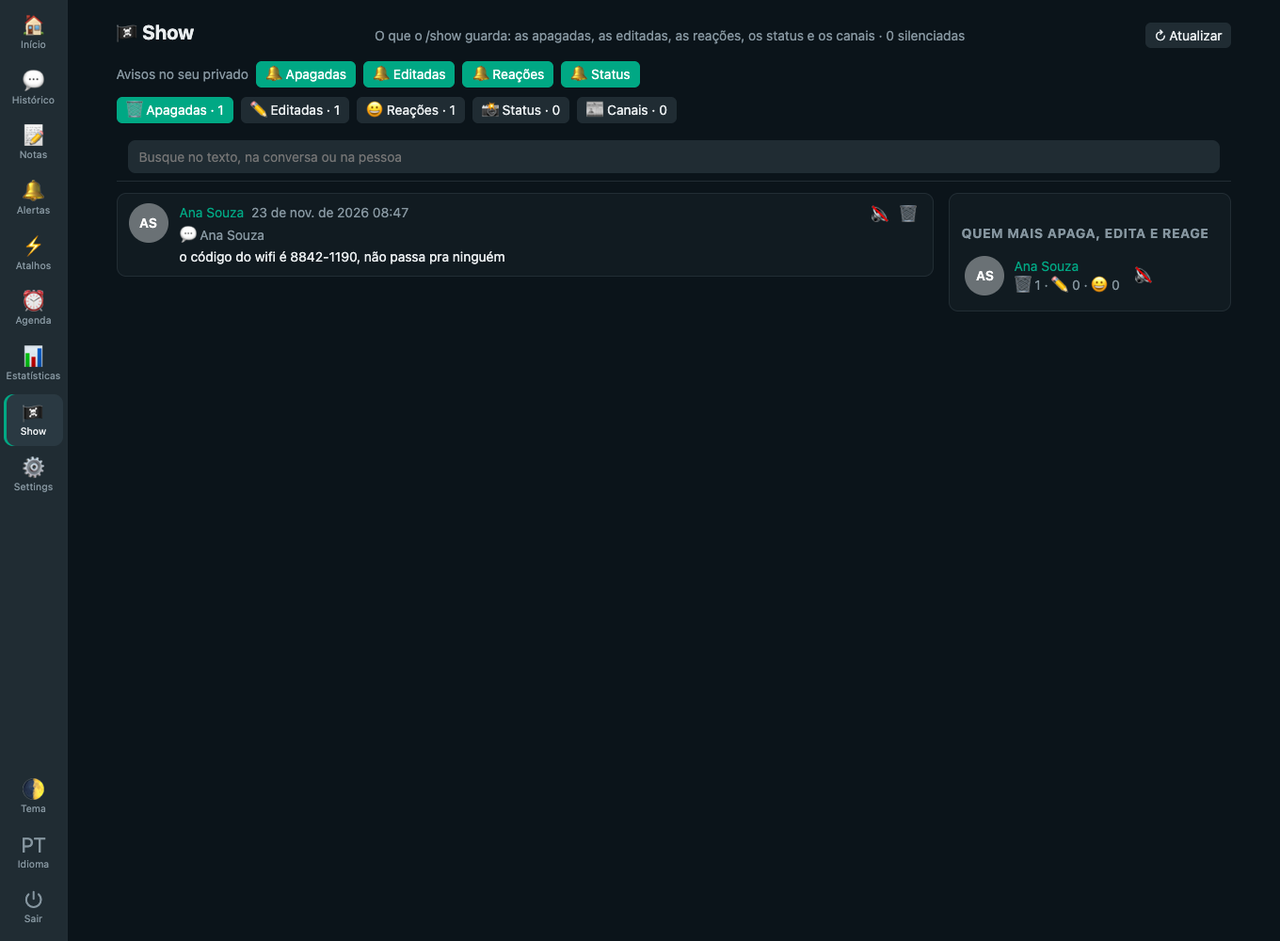
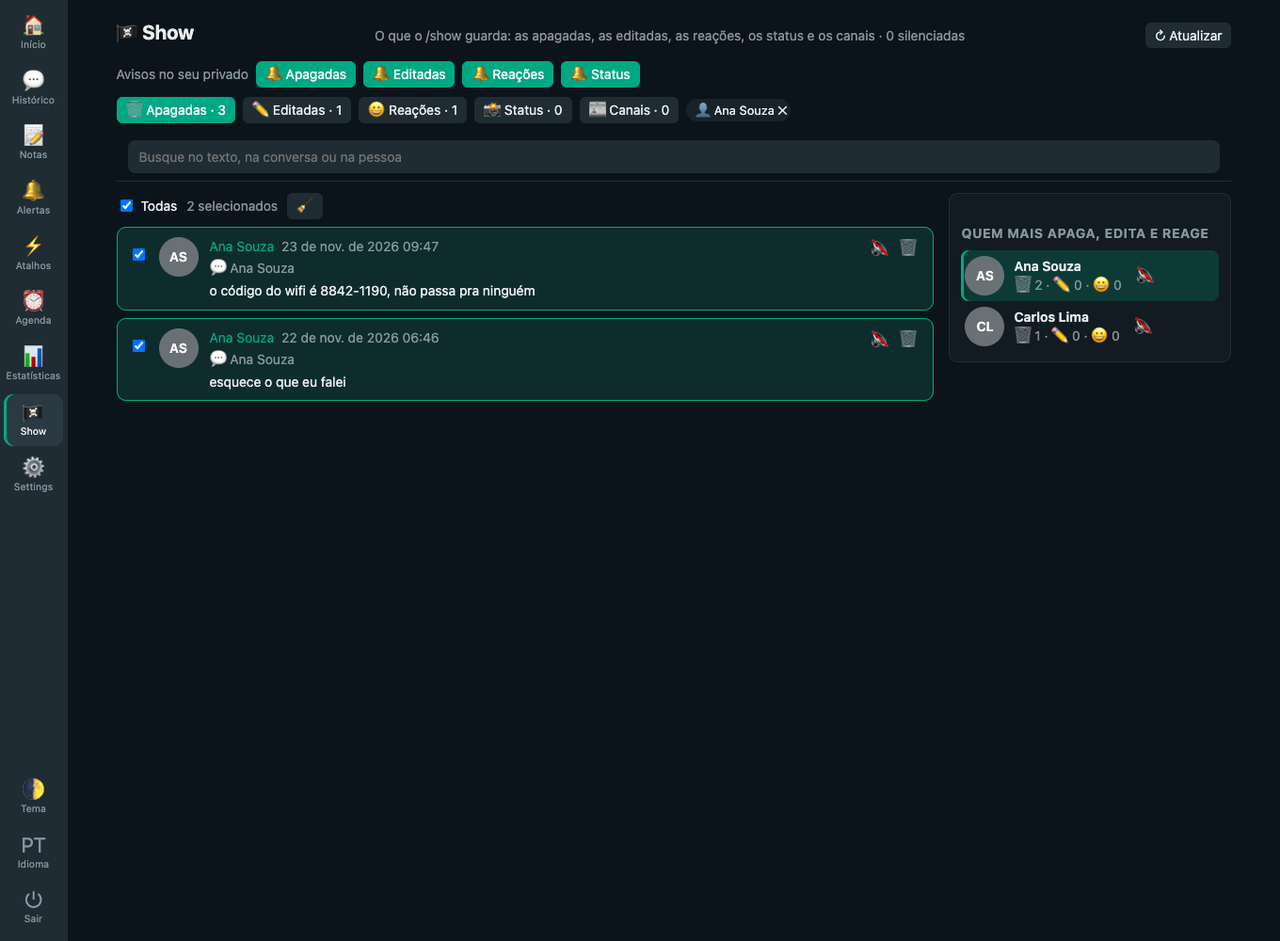
web: Show takes several items out at once (🧹) and highlights the person picked
A click on a card selects it, Shift+click selects a range and "All" every card of the list; the 🧹
above the list takes the selected ones out of the cache, in one call (ids, up to 500). The person
picked on the right gets a highlighted box, and a click on it again shows everyone. The screenshot
script checks "All" and Shift+click in the browser.

Changed region(s): [[0.0926, 0.217, 0.4324, 0.434], [0.6794, 0.217, 0.9574, 0.372], [0.1853, 0.093, 0.6176, 0.124]]

diff --git a/src/web/public/app.js b/src/web/public/app.js
@@ -28,7 +28,7 @@ const TEXTS = {
         vsPrevious: 'vs the previous period', noData: 'No data in this period yet.', cPerDay: 'Messages per day', cDeletedEdited: 'Deleted and edited per day', cHours: 'Messages by hour of the day',
         cHeat: 'When the chat is busy (weekday x hour)', cTypes: 'What the messages are', cChats: 'Chats with the most messages', cPeople: 'People who talk the most',
         text: 'text', mediaWord: 'media', weekdays: ['Sun', 'Mon', 'Tue', 'Wed', 'Thu', 'Fri', 'Sat'], msgsWord: 'messages', share: 'of the total',
-        cannotShow: 'this message could not be shown', phTag: 'travel', phTagDesc: 'places to visit', phNoteTag: 'ideas', envForced: (env) => `Decided by the ${env} variable (config/.env), which has priority over this setting`, noticeOn: 'Off: click to turn it on', noticeOff: 'On: click to turn it off', runOn: 'Running: click to pause', runOff: 'Paused: click to resume', clearHistory: 'Clear the history of this chat', clearBtn: 'Clear', clearTitle: (name) => `Clear the history · ${name}`, clearInfo: (r) => `${r.removed} messages will be deleted (with their media). ${r.kept} stay: the deleted, the edited and the ones with reactions, with what they had before.`, clearNothing: 'Nothing to delete: every message here is a deleted, edited or reacted one.', clearEmpty: 'This chat has no messages in the database.', cacheBtn: 'Clean', deleteNote: 'Delete the note', notice: 'Notice', spy: { nav: 'Show', subtitle: 'What /show keeps: the deleted, the edited, the reactions, the statuses and the channels', kinds: { deleted: 'Deleted', edited: 'Edited', reactions: 'Reactions', status: 'Statuses', channels: 'Channels' }, alerts: 'Notices in your private chat', alertOn: 'On: click to turn it off', alertOff: 'Off: click to turn it on', people: 'Who deletes, edits and reacts the most', nobody: 'Nobody yet.', search: 'Search the text, the chat or the person', empty: 'Nothing here.', mute: 'Mute this person (/mute)', unmute: 'Unmute (/unmute)', muted: 'muted', removeTitle: 'Take it out of the cache', removeText: 'The bot forgets this item (and its media); WhatsApp is not touched.', removed: 'removed', media: 'Open the media', openChat: 'Open the chat at this message', mutedCount: (n) => `${n} muted` }, cacheClean: 'Clean the cache (/cache)', cacheRetention: 'What is past the retention windows (/cache -clean)', cachePick: 'Pick at least one.', cacheAll: 'Everything (/cache -all): every message (deleted, edited and reacted included), media, temporary files and backups', cacheAllWarning: '⚠ Everything takes the whole history of every chat and the backups too: there is no undo. The notes always stay.', flushAll: 'Clear the history of every chat', flushBtn: 'Clear every chat', flushEmpty: 'There are no messages in the database.', flushWarning: (n) => `⚠ This clears the history of all the ${n} chats at once, not only this one. There is no undo (only a /backup).`, clearAll: (n) => `Delete everything (${n}), including the deleted, the edited and the reacted ones, with their media`, webPanel: 'Web interface', webAt: 'Open at', webAccess: 'Access', webLogin: 'Login and session', webScreen: 'Screen', webAlerts: 'Warnings', notSet: 'not set', needsRestart: 'Takes effect when the bot restarts', restSettings: 'All the other settings', protectedHere: 'Change it with /set in WhatsApp',  meBtn: 'Me (my private chat)', watchedBy: '/watch', openInHistory: 'Open in the history, at this message', presenceSource: 'WhatsApp presence · time not confirmed', newTag: 'New tag', newNote: 'New note', editTagBtn: 'Edit the tag', removeTag: 'Remove the tag', confirmRemoveTag: 'Remove this tag (it has no notes)?', removeTagWithNotes: 'Remove the tag and everything in it', removeTagInfo: (n) => `${n} note${n === 1 ? '' : 's'} (and their media) will be deleted, along with the tag's description and lock, if any.`, historyBtn: 'History', loadingHistory: 'Loading the history…', searchContact: 'Search a contact or group (name or number) or type an email', pickContact: 'Search the contact (name or number)', noMatches: 'No contact found', privateChat: 'Empty: it goes to your private chat', useEmail: (email) => `✉ Use ${email}`, updatedAt: (time) => `updated at ${time}`, noHistory: 'Nothing recorded yet.', removeReading: 'Remove this reading', historyOf: (name, total) => `${name} · ${total}`, securityChanged: (who) => `🔒 ${who ? `${who}'s` : 'a participant\'s'} security code changed`, systemNotice: (text) => `ℹ ${text ?? 'WhatsApp notice'}`, loadMore: 'Load more', noMore: 'No more messages.', loadingFor: (name) => `Loading ${name}…`, loadingStats: 'Loading the statistics…', loadingHome: 'Loading…', statsOverview: 'Statistics', last30: 'last 30 days', seeAllStats: 'See all the statistics',
+        cannotShow: 'this message could not be shown', phTag: 'travel', phTagDesc: 'places to visit', phNoteTag: 'ideas', envForced: (env) => `Decided by the ${env} variable (config/.env), which has priority over this setting`, noticeOn: 'Off: click to turn it on', noticeOff: 'On: click to turn it off', runOn: 'Running: click to pause', runOff: 'Paused: click to resume', clearHistory: 'Clear the history of this chat', clearBtn: 'Clear', clearTitle: (name) => `Clear the history · ${name}`, clearInfo: (r) => `${r.removed} messages will be deleted (with their media). ${r.kept} stay: the deleted, the edited and the ones with reactions, with what they had before.`, clearNothing: 'Nothing to delete: every message here is a deleted, edited or reacted one.', clearEmpty: 'This chat has no messages in the database.', cacheBtn: 'Clean', deleteNote: 'Delete the note', notice: 'Notice', spy: { nav: 'Show', subtitle: 'What /show keeps: the deleted, the edited, the reactions, the statuses and the channels', kinds: { deleted: 'Deleted', edited: 'Edited', reactions: 'Reactions', status: 'Statuses', channels: 'Channels' }, alerts: 'Notices in your private chat', alertOn: 'On: click to turn it off', alertOff: 'Off: click to turn it on', people: 'Who deletes, edits and reacts the most', nobody: 'Nobody yet.', search: 'Search the text, the chat or the person', empty: 'Nothing here.', mute: 'Mute this person (/mute)', unmute: 'Unmute (/unmute)', muted: 'muted', removeTitle: 'Take it out of the cache', removeText: 'The bot forgets this item (and its media); WhatsApp is not touched.', removed: 'removed', media: 'Open the media', openChat: 'Open the chat at this message', mutedCount: (n) => `${n} muted`, selectAll: 'All', selectOne: 'Select', selectHint: 'Click the items to select them (Shift+click: a range)', selected: (n) => `${n} selected`, removeSelected: (n) => `Take ${n} item${n === 1 ? '' : 's'} out of the cache` }, cacheClean: 'Clean the cache (/cache)', cacheRetention: 'What is past the retention windows (/cache -clean)', cachePick: 'Pick at least one.', cacheAll: 'Everything (/cache -all): every message (deleted, edited and reacted included), media, temporary files and backups', cacheAllWarning: '⚠ Everything takes the whole history of every chat and the backups too: there is no undo. The notes always stay.', flushAll: 'Clear the history of every chat', flushBtn: 'Clear every chat', flushEmpty: 'There are no messages in the database.', flushWarning: (n) => `⚠ This clears the history of all the ${n} chats at once, not only this one. There is no undo (only a /backup).`, clearAll: (n) => `Delete everything (${n}), including the deleted, the edited and the reacted ones, with their media`, webPanel: 'Web interface', webAt: 'Open at', webAccess: 'Access', webLogin: 'Login and session', webScreen: 'Screen', webAlerts: 'Warnings', notSet: 'not set', needsRestart: 'Takes effect when the bot restarts', restSettings: 'All the other settings', protectedHere: 'Change it with /set in WhatsApp',  meBtn: 'Me (my private chat)', watchedBy: '/watch', openInHistory: 'Open in the history, at this message', presenceSource: 'WhatsApp presence · time not confirmed', newTag: 'New tag', newNote: 'New note', editTagBtn: 'Edit the tag', removeTag: 'Remove the tag', confirmRemoveTag: 'Remove this tag (it has no notes)?', removeTagWithNotes: 'Remove the tag and everything in it', removeTagInfo: (n) => `${n} note${n === 1 ? '' : 's'} (and their media) will be deleted, along with the tag's description and lock, if any.`, historyBtn: 'History', loadingHistory: 'Loading the history…', searchContact: 'Search a contact or group (name or number) or type an email', pickContact: 'Search the contact (name or number)', noMatches: 'No contact found', privateChat: 'Empty: it goes to your private chat', useEmail: (email) => `✉ Use ${email}`, updatedAt: (time) => `updated at ${time}`, noHistory: 'Nothing recorded yet.', removeReading: 'Remove this reading', historyOf: (name, total) => `${name} · ${total}`, securityChanged: (who) => `🔒 ${who ? `${who}'s` : 'a participant\'s'} security code changed`, systemNotice: (text) => `ℹ ${text ?? 'WhatsApp notice'}`, loadMore: 'Load more', noMore: 'No more messages.', loadingFor: (name) => `Loading ${name}…`, loadingStats: 'Loading the statistics…', loadingHome: 'Loading…', statsOverview: 'Statistics', last30: 'last 30 days', seeAllStats: 'See all the statistics',
         code: '6-digit code', quotedGone: 'message not in the database', searchAll: 'Search all the messages', searchResults: (n) => `${n} results`, exportChat: 'Export PDF', reacted: 'reaction', removedReaction: 'removed', reactionHistory: 'Reaction history',
         reactionChanged: 'Changed reaction', reactionRemoved: 'Removed reaction', autoRefresh: 'New messages',
         home: 'Home', navHistory: 'History', notes: 'Notes', alerts: 'Alerts', aliases: 'Shortcuts', schedule: 'Schedule', stats: 'Stats', settings: 'Settings',
@@ -71,7 +71,7 @@ const TEXTS = {
         vsPrevious: 'em relação ao período anterior', noData: 'Ainda não há dados neste período.', cPerDay: 'Mensagens por dia', cDeletedEdited: 'Apagadas e editadas por dia', cHours: 'Mensagens por hora do dia',
         cHeat: 'Quando o movimento é maior (dia da semana x hora)', cTypes: 'O que são as mensagens', cChats: 'Conversas com mais mensagens', cPeople: 'Quem mais fala',
         text: 'texto', mediaWord: 'mídia', weekdays: ['Dom', 'Seg', 'Ter', 'Qua', 'Qui', 'Sex', 'Sáb'], msgsWord: 'mensagens', share: 'do total',
-        cannotShow: 'não foi possível mostrar esta mensagem', phTag: 'viagens', phTagDesc: 'lugares para conhecer', phNoteTag: 'ideias', envForced: (env) => `Decidido pela variável ${env} (config/.env), que tem prioridade sobre este setting`, noticeOn: 'Desligado: clique para ligar', noticeOff: 'Ligado: clique para desligar', runOn: 'Ativo: clique para pausar', runOff: 'Pausado: clique para retomar', clearHistory: 'Limpar o histórico desta conversa', clearBtn: 'Limpar', clearTitle: (name) => `Limpar o histórico · ${name}`, clearInfo: (r) => `${r.removed} mensagens serão apagadas (com a mídia). ${r.kept} ficam: as apagadas, as editadas e as com reações, com o que tinham antes.`, clearNothing: 'Nada a apagar: toda mensagem daqui é apagada, editada ou tem reação.', clearEmpty: 'Esta conversa não tem mensagens no banco.', cacheBtn: 'Limpar', deleteNote: 'Apagar a nota', notice: 'Aviso', spy: { nav: 'Show', subtitle: 'O que o /show guarda: as apagadas, as editadas, as reações, os status e os canais', kinds: { deleted: 'Apagadas', edited: 'Editadas', reactions: 'Reações', status: 'Status', channels: 'Canais' }, alerts: 'Avisos no seu privado', alertOn: 'Ligado: clique para desligar', alertOff: 'Desligado: clique para ligar', people: 'Quem mais apaga, edita e reage', nobody: 'Ninguém ainda.', search: 'Busque no texto, na conversa ou na pessoa', empty: 'Nada aqui.', mute: 'Silenciar esta pessoa (/mute)', unmute: 'Tirar o silêncio (/unmute)', muted: 'silenciada', removeTitle: 'Tirar do cache', removeText: 'O bot esquece este item (e a mídia dele); o WhatsApp não é tocado.', removed: 'tirou', media: 'Abrir a mídia', openChat: 'Abrir a conversa nesta mensagem', mutedCount: (n) => `${n} silenciadas` }, cacheClean: 'Limpar o cache (/cache)', cacheRetention: 'O que passou da retenção (/cache -clean)', cachePick: 'Marque pelo menos um.', cacheAll: 'Tudo (/cache -all): todas as mensagens (inclusive apagadas, editadas e com reações), mídias, temporários e backups', cacheAllWarning: '⚠ Tudo leva o histórico inteiro de todas as conversas e os backups também: não tem como desfazer. As notas ficam sempre.', flushAll: 'Limpar o histórico de todas as conversas', flushBtn: 'Limpar todas as conversas', flushEmpty: 'Não há mensagens no banco.', flushWarning: (n) => `⚠ Isto limpa o histórico de todas as ${n} conversas de uma vez, não só de uma. Não tem como desfazer (só por um /backup).`, clearAll: (n) => `Apagar tudo (${n}), inclusive as apagadas, as editadas e as com reações, com a mídia delas`, webPanel: 'Interface web', webAt: 'Abra em', webAccess: 'Acesso', webLogin: 'Login e sessão', webScreen: 'Tela', webAlerts: 'Avisos', notSet: 'não definido', needsRestart: 'Vale quando o bot reiniciar', restSettings: 'Todos os outros settings', protectedHere: 'Mude com o /set no WhatsApp',  meBtn: 'Eu (meu privado)', watchedBy: '/watch', openInHistory: 'Abrir no histórico, nesta mensagem', presenceSource: 'presença do WhatsApp · horário não confirmado', newTag: 'Nova tag', newNote: 'Nova nota', editTagBtn: 'Editar a tag', removeTag: 'Remover a tag', confirmRemoveTag: 'Remover esta tag (ela não tem notas)?', removeTagWithNotes: 'Remover a tag e tudo dentro dela', removeTagInfo: (n) => `${n} nota${n === 1 ? '' : 's'} (e a mídia delas) serão apagadas, junto com a descrição e o cadeado da tag, se houver.`, historyBtn: 'Histórico', loadingHistory: 'Carregando o histórico…', searchContact: 'Busque um contato ou grupo (nome ou número) ou digite um e-mail', pickContact: 'Busque o contato (nome ou número)', noMatches: 'Nenhum contato encontrado', privateChat: 'Vazio: vai para o seu privado', useEmail: (email) => `✉ Usar ${email}`, updatedAt: (time) => `atualizado às ${time}`, noHistory: 'Nada registrado ainda.', removeReading: 'Remover esta leitura', historyOf: (name, total) => `${name} · ${total}`, securityChanged: (who) => `🔒 o código de segurança de ${who ?? 'um participante'} mudou`, systemNotice: (text) => `ℹ ${text ?? 'aviso do WhatsApp'}`, loadMore: 'Carregar mais', noMore: 'Não há mais mensagens.', loadingFor: (name) => `Carregando ${name}…`, loadingStats: 'Carregando as estatísticas…', loadingHome: 'Carregando…', statsOverview: 'Estatísticas', last30: 'últimos 30 dias', seeAllStats: 'Ver todas as estatísticas',
+        cannotShow: 'não foi possível mostrar esta mensagem', phTag: 'viagens', phTagDesc: 'lugares para conhecer', phNoteTag: 'ideias', envForced: (env) => `Decidido pela variável ${env} (config/.env), que tem prioridade sobre este setting`, noticeOn: 'Desligado: clique para ligar', noticeOff: 'Ligado: clique para desligar', runOn: 'Ativo: clique para pausar', runOff: 'Pausado: clique para retomar', clearHistory: 'Limpar o histórico desta conversa', clearBtn: 'Limpar', clearTitle: (name) => `Limpar o histórico · ${name}`, clearInfo: (r) => `${r.removed} mensagens serão apagadas (com a mídia). ${r.kept} ficam: as apagadas, as editadas e as com reações, com o que tinham antes.`, clearNothing: 'Nada a apagar: toda mensagem daqui é apagada, editada ou tem reação.', clearEmpty: 'Esta conversa não tem mensagens no banco.', cacheBtn: 'Limpar', deleteNote: 'Apagar a nota', notice: 'Aviso', spy: { nav: 'Show', subtitle: 'O que o /show guarda: as apagadas, as editadas, as reações, os status e os canais', kinds: { deleted: 'Apagadas', edited: 'Editadas', reactions: 'Reações', status: 'Status', channels: 'Canais' }, alerts: 'Avisos no seu privado', alertOn: 'Ligado: clique para desligar', alertOff: 'Desligado: clique para ligar', people: 'Quem mais apaga, edita e reage', nobody: 'Ninguém ainda.', search: 'Busque no texto, na conversa ou na pessoa', empty: 'Nada aqui.', mute: 'Silenciar esta pessoa (/mute)', unmute: 'Tirar o silêncio (/unmute)', muted: 'silenciada', removeTitle: 'Tirar do cache', removeText: 'O bot esquece este item (e a mídia dele); o WhatsApp não é tocado.', removed: 'tirou', media: 'Abrir a mídia', openChat: 'Abrir a conversa nesta mensagem', mutedCount: (n) => `${n} silenciadas`, selectAll: 'Todas', selectOne: 'Selecionar', selectHint: 'Clique nos itens para selecioná-los (Shift+clique: um intervalo)', selected: (n) => `${n} selecionado${n === 1 ? '' : 's'}`, removeSelected: (n) => `Tirar ${n} ${n === 1 ? 'item' : 'itens'} do cache` }, cacheClean: 'Limpar o cache (/cache)', cacheRetention: 'O que passou da retenção (/cache -clean)', cachePick: 'Marque pelo menos um.', cacheAll: 'Tudo (/cache -all): todas as mensagens (inclusive apagadas, editadas e com reações), mídias, temporários e backups', cacheAllWarning: '⚠ Tudo leva o histórico inteiro de todas as conversas e os backups também: não tem como desfazer. As notas ficam sempre.', flushAll: 'Limpar o histórico de todas as conversas', flushBtn: 'Limpar todas as conversas', flushEmpty: 'Não há mensagens no banco.', flushWarning: (n) => `⚠ Isto limpa o histórico de todas as ${n} conversas de uma vez, não só de uma. Não tem como desfazer (só por um /backup).`, clearAll: (n) => `Apagar tudo (${n}), inclusive as apagadas, as editadas e as com reações, com a mídia delas`, webPanel: 'Interface web', webAt: 'Abra em', webAccess: 'Acesso', webLogin: 'Login e sessão', webScreen: 'Tela', webAlerts: 'Avisos', notSet: 'não definido', needsRestart: 'Vale quando o bot reiniciar', restSettings: 'Todos os outros settings', protectedHere: 'Mude com o /set no WhatsApp',  meBtn: 'Eu (meu privado)', watchedBy: '/watch', openInHistory: 'Abrir no histórico, nesta mensagem', presenceSource: 'presença do WhatsApp · horário não confirmado', newTag: 'Nova tag', newNote: 'Nova nota', editTagBtn: 'Editar a tag', removeTag: 'Remover a tag', confirmRemoveTag: 'Remover esta tag (ela não tem notas)?', removeTagWithNotes: 'Remover a tag e tudo dentro dela', removeTagInfo: (n) => `${n} nota${n === 1 ? '' : 's'} (e a mídia delas) serão apagadas, junto com a descrição e o cadeado da tag, se houver.`, historyBtn: 'Histórico', loadingHistory: 'Carregando o histórico…', searchContact: 'Busque um contato ou grupo (nome ou número) ou digite um e-mail', pickContact: 'Busque o contato (nome ou número)', noMatches: 'Nenhum contato encontrado', privateChat: 'Vazio: vai para o seu privado', useEmail: (email) => `✉ Usar ${email}`, updatedAt: (time) => `atualizado às ${time}`, noHistory: 'Nada registrado ainda.', removeReading: 'Remover esta leitura', historyOf: (name, total) => `${name} · ${total}`, securityChanged: (who) => `🔒 o código de segurança de ${who ?? 'um participante'} mudou`, systemNotice: (text) => `ℹ ${text ?? 'aviso do WhatsApp'}`, loadMore: 'Carregar mais', noMore: 'Não há mais mensagens.', loadingFor: (name) => `Carregando ${name}…`, loadingStats: 'Carregando as estatísticas…', loadingHome: 'Carregando…', statsOverview: 'Estatísticas', last30: 'últimos 30 dias', seeAllStats: 'Ver todas as estatísticas',
         code: 'Código de 6 dígitos', quotedGone: 'mensagem fora do banco', searchAll: 'Buscar em todas as mensagens', searchResults: (n) => `${n} resultados`, exportChat: 'Exportar PDF', reacted: 'reação', removedReaction: 'removida', reactionHistory: 'Histórico de reações',
         reactionChanged: 'Alterou a reação', reactionRemoved: 'Removeu a reação', autoRefresh: 'Mensagens novas',
         home: 'Início', navHistory: 'Histórico', notes: 'Notas', alerts: 'Alertas', aliases: 'Atalhos', schedule: 'Agenda', stats: 'Estatísticas', settings: 'Settings',
@@ -869,13 +869,60 @@ async function showSpy(content) {
     const feed = el('div', { class: 'spy-feed' });
     const more = el('button', { class: 'btn' }, T.loadMore);
     const tabs = el('div', { class: 'spy-tabs' });
+    const people = el('div', { class: 'spy-people' });
+    // The selection: the cards picked (by click) to take out of the cache at once
+    const picked = new Map();
+    const pickAll = el('input', { type: 'checkbox', title: S.selectAll, onchange: (event) => {
+        // Read once: each setPicked redraws the bar, which recomputes this checkbox
+        const on = event.target.checked;
+        for (const box of feed.querySelectorAll('.spy-card')) setPicked(box, on);
+    } });
+    const pickInfo = el('span', { class: 'muted grow' });
+    const sweep = el('button', { class: 'btn', onclick: () => sweepPicked() }, '🧹');
+    const bar = el('div', { class: 'spy-bar' }, el('label', { class: 'spy-all' }, pickAll, S.selectAll), pickInfo, sweep);
     let next = null;
+
+    function setPicked(box, on) {
+        box.classList.toggle('picked', on);
+        box.querySelector('.spy-pick').checked = on;
+        if (on) picked.set(box.dataset.id, box); else picked.delete(box.dataset.id);
+        renderBar();
+    }
+    // Shift+click: from the last card clicked to this one, all take the state of this one
+    let anchor = null;
+    function clickCard(box, range) {
+        const on = !box.classList.contains('picked');
+        const cards = [...feed.querySelectorAll('.spy-card')];
+        if (range && anchor?.isConnected) {
+            window.getSelection()?.removeAllRanges();
+            const [from, to] = [cards.indexOf(anchor), cards.indexOf(box)].sort((a, b) => a - b);
+            for (const one of cards.slice(from, to + 1)) setPicked(one, on);
+        } else setPicked(box, on);
+        anchor = box;
+    }
+    function renderBar() {
+        const total = feed.querySelectorAll('.spy-card').length;
+        pickInfo.textContent = picked.size ? S.selected(picked.size) : S.selectHint;
+        sweep.disabled = !picked.size;
+        sweep.title = S.removeSelected(picked.size);
+        pickAll.checked = Boolean(total) && picked.size === total;
+        pickAll.indeterminate = picked.size > 0 && picked.size < total;
+        bar.hidden = !total;
+    }
+    function sweepPicked() {
+        if (!picked.size) return;
+        const ids = [...picked.keys()];
+        confirmBox({
+            title: S.removeSelected(ids.length), text: S.removeText, submitLabel: `🧹 ${T.remove}`,
+            action: async () => { const result = await manage({ section: 'show', op: 'delete', kind: state.spy.kind, ids }); if (!result.error) show('show'); return result; }
+        });
+    }
 
     const toggleMute = async (who) => {
         const result = await manage({ section: 'show', op: 'mute', number: who.number, name: who.name });
         if (result.error) messageBox(result.error); else show('show');
     };
-    const pickPerson = (who) => { state.spy.person = who.number ? { number: who.number, name: who.name } : null; renderTabs(); load(true); };
+    const pickPerson = (who) => { state.spy.person = who.number ? { number: who.number, name: who.name } : null; renderTabs(); renderPeople(); load(true); };
 
     function card(item) {
         const who = item.person;
@@ -884,7 +931,12 @@ async function showSpy(content) {
             : item.kind === 'reactions'
                 ? [el('div', { class: 'spy-reaction' }, `${item.reaction.from || '∅'} → ${item.reaction.to || S.removed}`), item.text ? el('div', { class: 'muted' }, item.text) : null]
                 : [item.text ? el('div', {}, item.text) : null, item.media ? media(item) : null];
-        return el('div', { class: 'spy-card' },
+        const box = el('div', { class: 'spy-card', 'data-id': String(item.id), onclick: (event) => {
+            // A click on the card (the checkbox included) picks it; the buttons, links and media keep their own
+            if (event.target.closest('button, a, img')) return;
+            clickCard(box, event.shiftKey);
+        } },
+            el('input', { type: 'checkbox', class: 'spy-pick', tabindex: '-1', title: S.selectOne }),
             avatar({ id: who.id ?? item.chat, name: who.name }),
             el('div', { class: 'spy-body' },
                 el('div', { class: 'spy-head' },
@@ -899,6 +951,7 @@ async function showSpy(content) {
                     title: S.removeTitle, text: S.removeText,
                     action: async () => { const result = await manage({ section: 'show', op: 'delete', kind: item.kind, id: item.id }); if (!result.error) show('show'); return result; }
                 }) }, '🗑')));
+        return box;
     }
 
     function media(item) {
@@ -915,10 +968,11 @@ async function showSpy(content) {
         if (!reset && next) params.set('before', String(next));
         const page = await (await api(`/api/show/items?${params}`)).json();
         next = page.next;
-        if (reset) feed.replaceChildren();
+        if (reset) { feed.replaceChildren(); picked.clear(); anchor = null; }
         if (reset && !page.items.length) feed.append(el('div', { class: 'empty' }, S.empty));
         feed.append(...page.items.map(card));
         more.hidden = !next;
+        renderBar();
     }
     more.addEventListener('click', () => load(false));
 
@@ -926,7 +980,7 @@ async function showSpy(content) {
         tabs.replaceChildren(...Object.entries(SPY_KINDS).map(([kind, icon]) => el('button', {
             class: `btn${state.spy.kind === kind ? ' on' : ''}`, onclick: () => { state.spy.kind = kind; renderTabs(); load(true); }
         }, `${icon} ${S.kinds[kind]} · ${summary.counts[kind]}`)),
-        state.spy.person ? el('button', { class: 'btn chip', onclick: () => { state.spy.person = null; renderTabs(); load(true); } }, `👤 ${state.spy.person.name} ✕`) : el('span'));
+        state.spy.person ? el('button', { class: 'btn chip', onclick: () => pickPerson({}) }, `👤 ${state.spy.person.name} ✕`) : el('span'));
     }
 
     const search = el('input', { type: 'search', placeholder: S.search, value: state.spy.q,
@@ -939,19 +993,28 @@ async function showSpy(content) {
                 if (result.error) messageBox(result.error); else show('show');
             } }, `${on ? '🔔' : '🔕'} ${S.kinds[kind]}`);
         }));
-    const people = el('div', { class: 'spy-people' }, el('h3', {}, S.people),
-        summary.people.length ? summary.people.map(p => el('div', { class: `spy-person${state.spy.person?.number === p.number ? ' active' : ''}` },
-            avatar({ id: p.id, name: p.name }),
-            el('div', { class: 'grow' }, el('button', { class: 'link', onclick: () => pickPerson(p) }, p.name), p.muted ? el('span', { title: S.muted }, ' 🔇') : null,
-                el('div', { class: 'muted' }, `🗑 ${p.deleted} · ✏ ${p.edited} · 😀 ${p.reactions}`)),
-            el('button', { class: 'icon-btn', title: p.muted ? S.unmute : S.mute, onclick: () => toggleMute(p) }, p.muted ? '🔊' : '🔇'))) : el('div', { class: 'muted' }, S.nobody));
+    // The person picked gets the highlight; a click on it again (or on the ✕ of the chip) shows everyone
+    function renderPeople() {
+        people.replaceChildren(el('h3', {}, S.people),
+            ...(summary.people.length ? summary.people.map(p => {
+                const active = state.spy.person?.number === p.number;
+                return el('div', { class: `spy-person${active ? ' active' : ''}`, onclick: (event) => {
+                    if (!event.target.closest('.icon-btn')) pickPerson(active ? {} : p);
+                } },
+                avatar({ id: p.id, name: p.name }),
+                el('div', { class: 'grow' }, el('span', { class: 'spy-name' }, p.name), p.muted ? el('span', { title: S.muted }, ' 🔇') : null,
+                    el('div', { class: 'muted' }, `🗑 ${p.deleted} · ✏ ${p.edited} · 😀 ${p.reactions}`)),
+                el('button', { class: 'icon-btn', title: p.muted ? S.unmute : S.mute, onclick: () => toggleMute(p) }, p.muted ? '🔊' : '🔇'));
+            }) : [el('div', { class: 'muted' }, S.nobody)]));
+    }
 
     renderTabs();
+    renderPeople();
     content.replaceChildren(el('div', { class: 'page' },
         el('div', { class: 'page-head' }, el('h2', {}, `🏴☠ ${S.nav}`), el('span', { class: 'muted grow' }, `${S.subtitle} · ${S.mutedCount(summary.mutedCount)}`),
             el('button', { class: 'btn', onclick: () => show('show') }, `↻ ${T.refresh}`)),
         alerts, tabs, el('div', { class: 'search spy-search' }, search),
-        el('div', { class: 'spy-layout' }, el('div', {}, feed, more), people)));
+        el('div', { class: 'spy-layout' }, el('div', {}, bar, feed, more), people)));
     await load(true);
 }
 

diff --git a/scripts/web-screenshots.js b/scripts/web-screenshots.js
@@ -22,7 +22,7 @@ const PASSWORD = 'demo-password-123';
 
 const bot = require('../tests/helpers/bot');
 
-const PAIRS = [["Oi! Vamos no cinema sábado?", "Hi! Want to go to the movies on Saturday?"], ["Bora! Qual filme?", "Sure! Which movie?"], ["O novo do Villeneuve, sessão das 19h30", "The new Villeneuve, the 7:30 pm showing"], ["Fechado 🍿", "Deal 🍿"], ["Olha onde fui hoje!", "Look where I went today!"], ["o código do wifi é 8842-1190, não passa pra ninguém", "the wifi code is 8842-1190, do not share it"], ["Chego às 19h15 na porta do cinema, ok?", "I will be at the cinema door at 7:15 pm, ok?"], ["Chego às 19h na porta do cinema", "I will be at the cinema door at 7 pm"], ["Almoço domingo na casa da vovó, 13h!", "Sunday lunch at grandma and grandpa, 1 pm!"], ["Levo a sobremesa", "I will bring dessert"], ["Eu levo o refri 🥤", "I will bring the soda 🥤"], ["Mandei o contrato por e-mail", "I emailed the contract"], ["Recebi, valeu!", "Got it, thanks!"], ["Bom dia, pessoal! Reunião do condomínio na quinta, 19h.", "Good morning, everyone! Building meeting on Thursday, 7 pm."], ["Lembrete: o boleto de novembro vence dia 28 e já está no portal.", "Reminder: the November invoice is due on the 28th and is already on the portal."], ["Obrigada! Alguém sabe se o boleto aceita pix?", "Thanks! Does anyone know if the invoice accepts pix?"], ["Aceita sim, é só usar o pix copia e cola do portal.", "It does, just use the pix copy and paste on the portal."], ["Condomínio Solar", "Solar Building"], ["Síndico Paulo", "Manager Paul"], ["Administração", "Management"], ["Dona Marta", "Mrs. Marta"], ["Família Souza", "Souza Family"], ["Mãe", "Mom"], ["Fulano de Tal", "John Doe"], ["Coisas para cozinhar no fim de semana", "Things to cook on the weekend"], ["Projetos e ideias soltas", "Projects and loose ideas"], ["Bolo de cenoura\\nCenoura, ovos, óleo e açúcar; cobertura de chocolate. https://example.com/bolo-de-cenoura", "Carrot cake\\nCarrots, eggs, oil and sugar; chocolate frosting. https://example.com/carrot-cake"], ["Risoto de limão siciliano\\nArroz arbóreo, caldo de legumes, limão e parmesão.", "Lemon risotto\\nArborio rice, vegetable stock, lemon and parmesan."], ["App para dividir a conta do bar\\nUsar o Pix copia-e-cola e um QR Code por pessoa.", "App to split the bar tab\\nUse the Pix copy-and-paste and one QR Code per person."], ["Automatizar o relatório mensal com o /cron", "Automate the monthly report with /cron"], ["Renovar o seguro do carro até dia 30", "Renew the car insurance by the 30th"], ["Senha do wifi da casa: exemplo-1234", "House wifi password: example-1234"], ["PIN do cartão (exemplo): 0000", "Card PIN (example): 0000"], ["Cotação do dólar", "Dollar quote"], ["Bitcoin em uma linha", "Bitcoin in one line"], ["Abre a tag protegida #cofre", "Opens the protected tag #vault"], ["Texto respondido, falado com uma batida", "A replied text, spoken over a beat"], ["Hora de vender?", "Time to sell?"], ["Bom dia! ☀", "Good morning! ☀"], ["Bom domingo, família! ☀", "Happy Sunday, family! ☀"], ["Pagar o condomínio", "Pay the building fee"], ["chatstate offline (confirmar no aplicativo)", "chatstate offline (confirm in the app)"], ["/pix|ted/i", "/pix|wire/i"], ["#cofre", "#vault"], ["#receitas", "#recipes"], ["Bom dia", "Good morning"], ["Roteiros e lugares para conhecer", "Itineraries and places to visit"], ["Lisboa em maio: Alfama, Belém e um pastel de nata por dia", "Lisbon in May: Alfama, Belém and one custard tart a day"], ["receitas", "recipes"], ["ideias", "ideas"], ["cofre", "vault"], ["boleto", "invoice"], ["promoção", "sale"], ["viagens", "travel"], ["/dolar", "/dollar"]];
+const PAIRS = [["Oi! Vamos no cinema sábado?", "Hi! Want to go to the movies on Saturday?"], ["Bora! Qual filme?", "Sure! Which movie?"], ["O novo do Villeneuve, sessão das 19h30", "The new Villeneuve, the 7:30 pm showing"], ["Fechado 🍿", "Deal 🍿"], ["Olha onde fui hoje!", "Look where I went today!"], ["o código do wifi é 8842-1190, não passa pra ninguém", "the wifi code is 8842-1190, do not share it"], ["Chego às 19h15 na porta do cinema, ok?", "I will be at the cinema door at 7:15 pm, ok?"], ["Chego às 19h na porta do cinema", "I will be at the cinema door at 7 pm"], ["Almoço domingo na casa da vovó, 13h!", "Sunday lunch at grandma and grandpa, 1 pm!"], ["Levo a sobremesa", "I will bring dessert"], ["Eu levo o refri 🥤", "I will bring the soda 🥤"], ["Mandei o contrato por e-mail", "I emailed the contract"], ["Recebi, valeu!", "Got it, thanks!"], ["Bom dia, pessoal! Reunião do condomínio na quinta, 19h.", "Good morning, everyone! Building meeting on Thursday, 7 pm."], ["Lembrete: o boleto de novembro vence dia 28 e já está no portal.", "Reminder: the November invoice is due on the 28th and is already on the portal."], ["Obrigada! Alguém sabe se o boleto aceita pix?", "Thanks! Does anyone know if the invoice accepts pix?"], ["Aceita sim, é só usar o pix copia e cola do portal.", "It does, just use the pix copy and paste on the portal."], ["Condomínio Solar", "Solar Building"], ["Síndico Paulo", "Manager Paul"], ["Administração", "Management"], ["Dona Marta", "Mrs. Marta"], ["Família Souza", "Souza Family"], ["Mãe", "Mom"], ["Fulano de Tal", "John Doe"], ["Coisas para cozinhar no fim de semana", "Things to cook on the weekend"], ["Projetos e ideias soltas", "Projects and loose ideas"], ["Bolo de cenoura\\nCenoura, ovos, óleo e açúcar; cobertura de chocolate. https://example.com/bolo-de-cenoura", "Carrot cake\\nCarrots, eggs, oil and sugar; chocolate frosting. https://example.com/carrot-cake"], ["Risoto de limão siciliano\\nArroz arbóreo, caldo de legumes, limão e parmesão.", "Lemon risotto\\nArborio rice, vegetable stock, lemon and parmesan."], ["App para dividir a conta do bar\\nUsar o Pix copia-e-cola e um QR Code por pessoa.", "App to split the bar tab\\nUse the Pix copy-and-paste and one QR Code per person."], ["Automatizar o relatório mensal com o /cron", "Automate the monthly report with /cron"], ["Renovar o seguro do carro até dia 30", "Renew the car insurance by the 30th"], ["Senha do wifi da casa: exemplo-1234", "House wifi password: example-1234"], ["PIN do cartão (exemplo): 0000", "Card PIN (example): 0000"], ["Cotação do dólar", "Dollar quote"], ["Bitcoin em uma linha", "Bitcoin in one line"], ["Abre a tag protegida #cofre", "Opens the protected tag #vault"], ["Texto respondido, falado com uma batida", "A replied text, spoken over a beat"], ["Hora de vender?", "Time to sell?"], ["Bom dia! ☀", "Good morning! ☀"], ["Bom domingo, família! ☀", "Happy Sunday, family! ☀"], ["Pagar o condomínio", "Pay the building fee"], ["chatstate offline (confirmar no aplicativo)", "chatstate offline (confirm in the app)"], ["/pix|ted/i", "/pix|wire/i"], ["#cofre", "#vault"], ["#receitas", "#recipes"], ["Bom dia", "Good morning"], ["esquece o que eu falei", "forget what I said"], ["Vou atrasar uns 20 minutos", "I will be about 20 minutes late"], ["Roteiros e lugares para conhecer", "Itineraries and places to visit"], ["Lisboa em maio: Alfama, Belém e um pastel de nata por dia", "Lisbon in May: Alfama, Belém and one custard tart a day"], ["receitas", "recipes"], ["ideias", "ideas"], ["cofre", "vault"], ["boleto", "invoice"], ["promoção", "sale"], ["viagens", "travel"], ["/dolar", "/dollar"]];
 
 // The pictures are made in English by default: the invented data is written in Portuguese below and translated here
 // (to the database and to the page) unless LANG_UI=pt
@@ -102,6 +102,7 @@ async function seed() {
     await insert('a5', ANA, { chatName: 'Ana Souza', sender: 'Ana Souza', number: '5521999990001', type: 'image', body: 'Olha onde fui hoje!', at: t0 + 2 * HOUR, media: photo });
     await insert('a6', ANA, { chatName: 'Ana Souza', sender: 'Ana Souza', number: '5521999990001', type: 'sticker', at: t0 + 2 * HOUR + MIN, media: sticker });
     await insert('a7', ANA, { chatName: 'Ana Souza', sender: 'Ana Souza', number: '5521999990001', body: 'o código do wifi é 8842-1190, não passa pra ninguém', at: t0 + 3 * HOUR, deleted: true, deletedAt: t0 + 3 * HOUR + 2 * MIN });
+    await insert('a0', ANA, { chatName: 'Ana Souza', sender: 'Ana Souza', number: '5521999990001', body: 'esquece o que eu falei', at: t0 - DAY, deleted: true, deletedAt: t0 - DAY + MIN });
     await insert('a8', ANA, { chatName: 'Ana Souza', body: 'Chego às 19h15 na porta do cinema, ok?', at: t0 + 20 * HOUR, fromMe: true });
     await bot.dbRun("INSERT INTO message_edits (message_id, chat_id, old_body, new_body, edited_at) VALUES ('a8', ?, 'Chego às 19h na porta do cinema', 'Chego às 19h15 na porta do cinema, ok?', ?)", [ANA, t0 + 20 * HOUR + 2 * MIN]);
     await bot.dbRun("INSERT INTO reactions VALUES ('a3', ?, ?, '👍', ?)", [ANA, ANA, t0 + 7 * MIN]);
@@ -111,6 +112,7 @@ async function seed() {
     await insert('f1', FAMILY, { chatName: 'Família Souza', group: true, sender: 'Mãe', number: '5521999990003', body: 'Almoço domingo na casa da vovó, 13h!', at: now - 5 * HOUR });
     await insert('f2', FAMILY, { chatName: 'Família Souza', group: true, sender: 'Carlos Lima', number: '5521999990002', body: 'Levo a sobremesa', at: now - 4 * HOUR });
     await insert('f3', FAMILY, { chatName: 'Família Souza', group: true, body: 'Eu levo o refri 🥤', at: now - 3 * HOUR, fromMe: true });
+    await insert('f0', FAMILY, { chatName: 'Família Souza', group: true, sender: 'Carlos Lima', number: '5521999990002', body: 'Vou atrasar uns 20 minutos', at: now - 6 * HOUR, deleted: true, deletedAt: now - 6 * HOUR + MIN });
     await insert('c1', CARLOS, { chatName: 'Carlos Lima', sender: 'Carlos Lima', number: '5521999990002', body: 'Mandei o contrato por e-mail', at: now - 30 * HOUR });
     await insert('c2', CARLOS, { chatName: 'Carlos Lima', body: 'Recebi, valeu!', at: now - 29 * HOUR, fromMe: true });
 
@@ -355,6 +357,25 @@ async function main() {
     await view('show');
     await page.waitForSelector('.spy-feed');
     await wait(400);
+    // "All" picks every card of the list (and unpicks them again)
+    await page.click('.spy-all input');
+    const counts = await page.evaluate(() => [document.querySelectorAll('.spy-card').length, document.querySelectorAll('.spy-card.picked').length]);
+    if (counts[0] < 3 || counts[0] !== counts[1]) throw new Error(`Show: "All" picked ${counts[1]} of ${counts[0]} cards`);
+    await page.click('.spy-all input');
+    // Shift+click: the first card and then the third pick the three
+    const texts = await page.$$('.spy-card .spy-text');
+    await texts[0].click();
+    await page.keyboard.down('Shift');
+    await texts[2].click();
+    await page.keyboard.up('Shift');
+    const range = await page.evaluate(() => document.querySelectorAll('.spy-card.picked').length);
+    if (range !== 3) throw new Error(`Show: Shift+click picked ${range} of 3 cards`);
+    await page.click('.spy-all input');
+    await page.click('.spy-all input');
+    // The person picked on the right (highlighted) and two cards selected for the 🧹
+    await page.click('.spy-person');
+    await wait(500);
+    for (const card of (await page.$$('.spy-card .spy-text')).slice(0, 2)) await card.click();
     await shot('show', 1000);
 
     /* statistics */

diff --git a/src/web/show.js b/src/web/show.js
@@ -126,19 +126,30 @@ async function showItems({ kind, q = '', person: number = '', before = null }) {
     return { items, next: rows.length > PAGE ? rows[PAGE - 1].at : null };
 }
 
-/** Takes one item out of the cache (a deleted message with its media, an edit, a reaction change) */
-async function deleteShowItem({ kind, id }) {
+const MAX_DELETE = 500;
+
+/**
+ * Takes items out of the cache (a deleted message with its media, an edit, a reaction change):
+ * one (id) or several of the same kind (ids, the ones selected on the page)
+ */
+async function deleteShowItem({ kind, id, ids }) {
     const k = KINDS[kind];
     if (!k) return { ok: false, error: 'kind: deleted, status, channels, edited or reactions' };
-    const row = await dbGet(`SELECT * FROM ${k.from} WHERE id = ? AND ${k.where}`, [id]);
-    if (!row) return { ok: false, error: 'item: not found' };
-    await dbRun(`DELETE FROM ${k.from} WHERE id = ?`, [id]);
-    if (k.from === 'messages' && row.media_path) {
-        const base = await fs.realpath(MEDIA_DIR).catch(() => null);
-        const real = base ? await fs.realpath(path.resolve(MEDIA_DIR, row.media_path)).catch(() => null) : null;
-        if (real?.startsWith(base + path.sep)) await fs.remove(real).catch(() => {});
+    const list = [...new Set((Array.isArray(ids) ? ids : [id]).filter(v => v !== undefined && v !== null && v !== ''))];
+    if (!list.length || list.length > MAX_DELETE) return { ok: false, error: `ids: 1 to ${MAX_DELETE} items` };
+    const base = await fs.realpath(MEDIA_DIR).catch(() => null);
+    let removed = 0;
+    for (const one of list) {
+        const row = await dbGet(`SELECT * FROM ${k.from} WHERE id = ? AND ${k.where}`, [one]);
+        if (!row) continue;
+        await dbRun(`DELETE FROM ${k.from} WHERE id = ?`, [one]);
+        removed++;
+        if (k.from === 'messages' && row.media_path && base) {
+            const real = await fs.realpath(path.resolve(MEDIA_DIR, row.media_path)).catch(() => null);
+            if (real?.startsWith(base + path.sep)) await fs.remove(real).catch(() => {});
+        }
     }
-    return { ok: true };
+    return removed ? { ok: true, removed } : { ok: false, error: 'item: not found' };
 }
 
 /** /mute and /unmute of a person, from the page: every kind of notice, with no deadline */

diff --git a/src/web/public/style.css b/src/web/public/style.css
@@ -435,7 +435,15 @@ button.rank:hover { background: var(--hover); }
 .spy-media { max-width: 220px; max-height: 220px; border-radius: 8px; cursor: zoom-in; margin-top: 4px; }
 .spy-people { background: var(--panel); border: 1px solid var(--line); border-radius: 10px; padding: 10px 12px; position: sticky; top: 10px; }
 .spy-person { display: flex; gap: 10px; align-items: center; padding: 6px 4px; border-radius: 8px; }
-.spy-person.active { background: var(--selected); }
+.spy-person { cursor: pointer; }
+.spy-person:hover { background: var(--hover); }
+.spy-person.active { background: color-mix(in srgb, var(--accent) 22%, var(--panel)); box-shadow: inset 3px 0 0 var(--accent); }
+.spy-name { font-weight: 600; }
+.spy-bar { display: flex; align-items: center; gap: 10px; margin-bottom: 8px; }
+.spy-all { display: flex; align-items: center; gap: 6px; cursor: pointer; }
+.spy-card { cursor: pointer; }
+.spy-card.picked { border-color: var(--accent); background: color-mix(in srgb, var(--accent) 12%, var(--panel)); }
+.spy-pick { margin-top: 12px; pointer-events: none; } /* the click goes to the card (Shift+click included) */
 @media (max-width: 900px) { .spy-layout { grid-template-columns: 1fr; } .spy-people { position: static; } }
 .storage-total { font-size: 28px; font-weight: 600; }
 .stack { display: flex; height: 26px; border-radius: 8px; overflow: hidden; background: var(--line); gap: 2px; }

diff --git a/tests/web.test.js b/tests/web.test.js
@@ -1765,6 +1765,12 @@ describe('the web interface: mute a /watch rule, the chat of a schedule, clear a
 
         assert.equal((await manage({ section: 'show', op: 'delete', kind: 'deleted', id: 'd3' })).status, 200);
         assert.equal(await bot.dbGet("SELECT id FROM messages WHERE id = 'd3'"), undefined);
+        // Several at once (the selection of the page): the ones that are not Show items are skipped
+        const many = await manage({ section: 'show', op: 'delete', kind: 'deleted', ids: ['d1', 'd2', 'ok', 'nada'] });
+        assert.equal(many.status, 200);
+        assert.equal(many.body.removed, 2);
+        assert.equal((await json('/api/show')).counts.deleted, 0);
+        assert.equal((await manage({ section: 'show', op: 'delete', kind: 'deleted', ids: [] })).status, 400);
         assert.equal((await manage({ section: 'show', op: 'delete', kind: 'deleted', id: 'ok' })).status, 400, 'a message that was not deleted is not a Show item');
         assert.equal((await manage({ section: 'show', op: 'delete', kind: 'edited', id: edit.id })).status, 200);
         assert.equal((await json('/api/show')).counts.edited, 0);

diff --git a/docs/web.md b/docs/web.md
@@ -370,8 +370,9 @@ with the count: **deleted**, **edited** (before and after), **reactions** (the o
 Each item has the photo (click it: the contact card, and there the photo in full size), the name (click it: only that
 person's items), the chat (click it: the History opens at that message), when it happened and what was recovered (the
 text and the media; click an image to see it big). 🔇 mutes the person (the same as [`/mute`](commands/mute.md), every
-notice, no deadline) and 🔊 unmutes; 🗑 takes the item out of the cache. On the side, who deletes, edits and reacts the
-most, with the counts and the 🔇.
+notice, no deadline) and 🔊 unmutes; 🗑 takes the item out of the cache. To take out several at once, click the items
+(Shift+click picks a range; **All**, above the list, picks every one) and then 🧹. On the side, who deletes, edits and reacts the most, with the counts and the
+🔇: click a person to see only theirs (the box stays highlighted; click again to see everyone).
 
 ![Show: the notices, the tabs, the recovered items and who deletes the most](assets/web/show.png)
 

diff --git a/docs/web.pt-BR.md b/docs/web.pt-BR.md
@@ -372,8 +372,9 @@ apagados e posts de **canais** apagados, os mais recentes primeiro, com busca no
 Cada item tem a foto (clique: a ficha do contato e, nela, a foto grande), o nome (clique: só os itens daquela pessoa),
 a conversa (clique: o Histórico abre naquela mensagem), quando aconteceu e o que foi recuperado (o texto e a mídia;
 clique numa imagem para ver grande). O 🔇 silencia a pessoa (o mesmo que o [`/mute`](commands/mute.md), todos os
-avisos, sem prazo) e o 🔊 tira o silêncio; o 🗑 tira o item do cache. Ao lado, quem mais apaga, edita e reage, com as
-contagens e o 🔇.
+avisos, sem prazo) e o 🔊 tira o silêncio; o 🗑 tira o item do cache. Para tirar vários de uma vez, clique nos itens
+(Shift+clique marca um intervalo; **Todas**, acima da lista, marca todos) e depois no 🧹. Ao lado, quem mais apaga, edita e reage, com as contagens e o 🔇:
+clique numa pessoa para ver só os dela (o box fica destacado; clique de novo para ver todos).
 
 ![Show: os avisos, as abas, os itens recuperados e quem mais apaga](assets/web/pt-BR/show.png)
 
